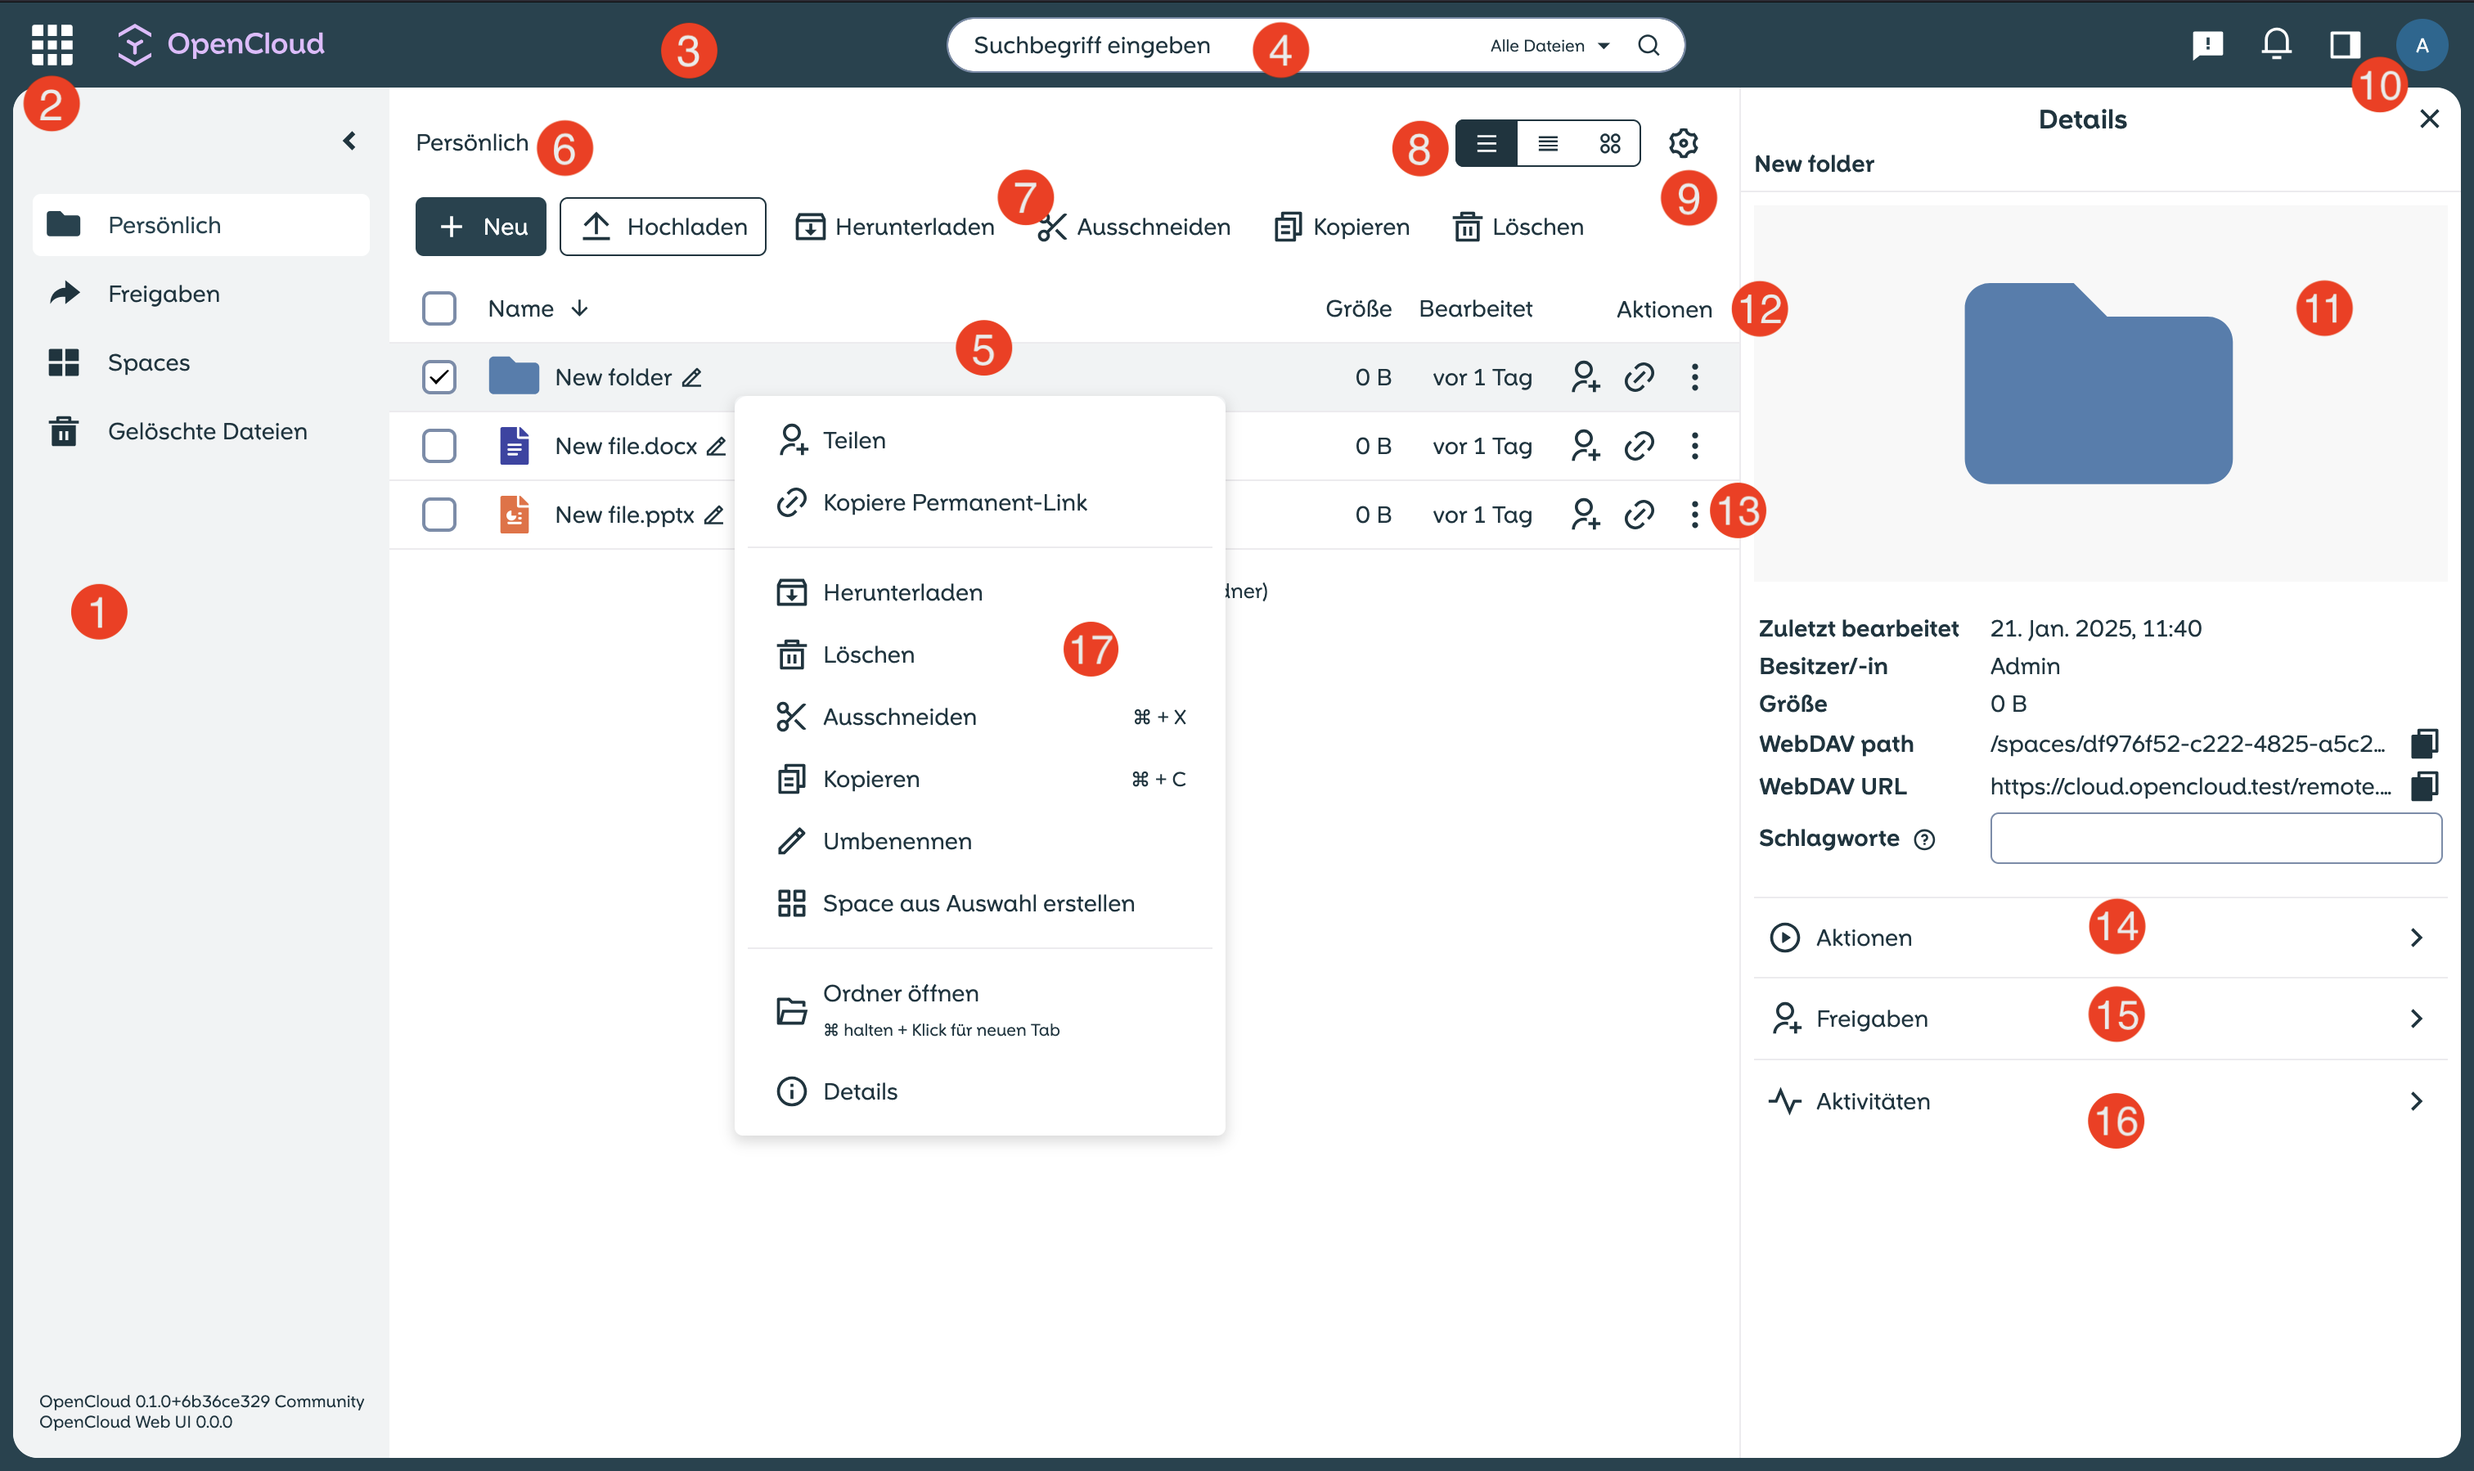
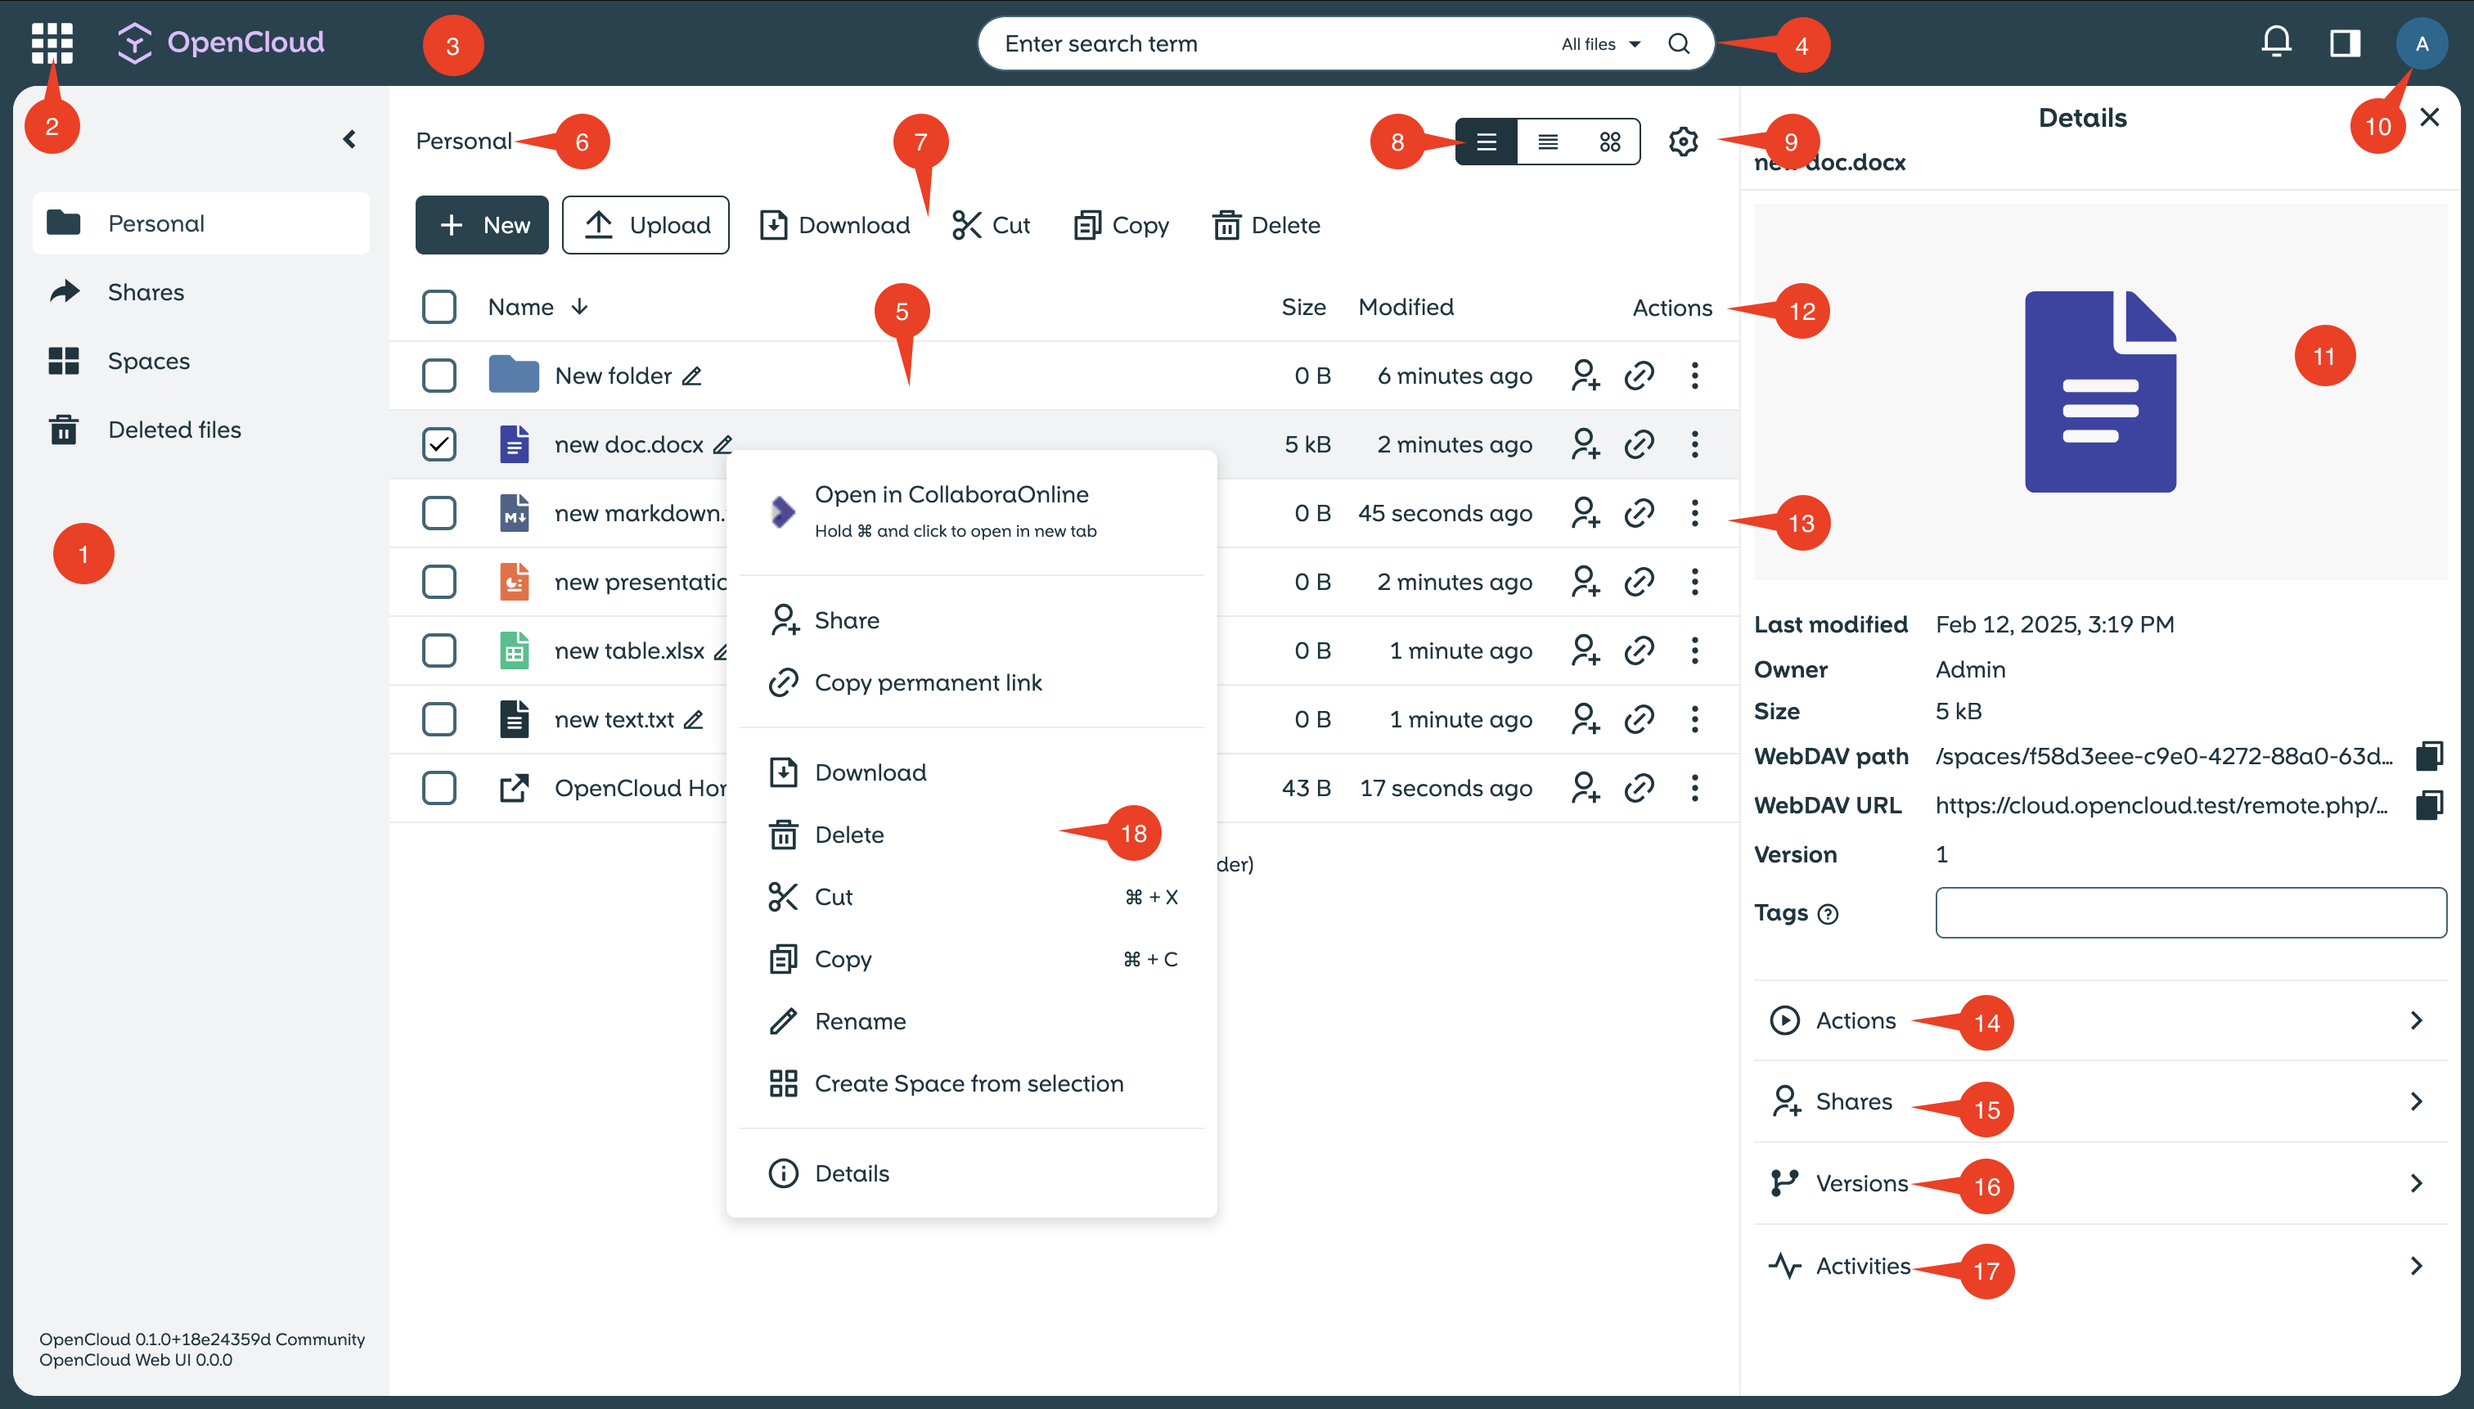
Add overview images and adjust text (#53)
* Add overview images and adjust text

* adjust version text to german

diff --git a/docs/user/general/overview.md b/docs/user/general/overview.md
@@ -62,10 +62,13 @@ Shows possible **actions for the selected file**, e.g. rename or move.
 **15. Shares Panel**  
 Here you can share files and folders **internally or externally** and manage permissions.
 
-**16. Activity Panel**  
+**16. Versions**  
+Shows an overview of the **versions** of a selected file or folder.
+
+**17. Activity Panel**  
 Shows an **overview of changes and activities** within a space or file.
 
-**17. Context Menu**  
+**18. Context Menu**  
 Right-clicking on a file or folder opens the **context menu with specific options**.
 <br/><br/>
 
